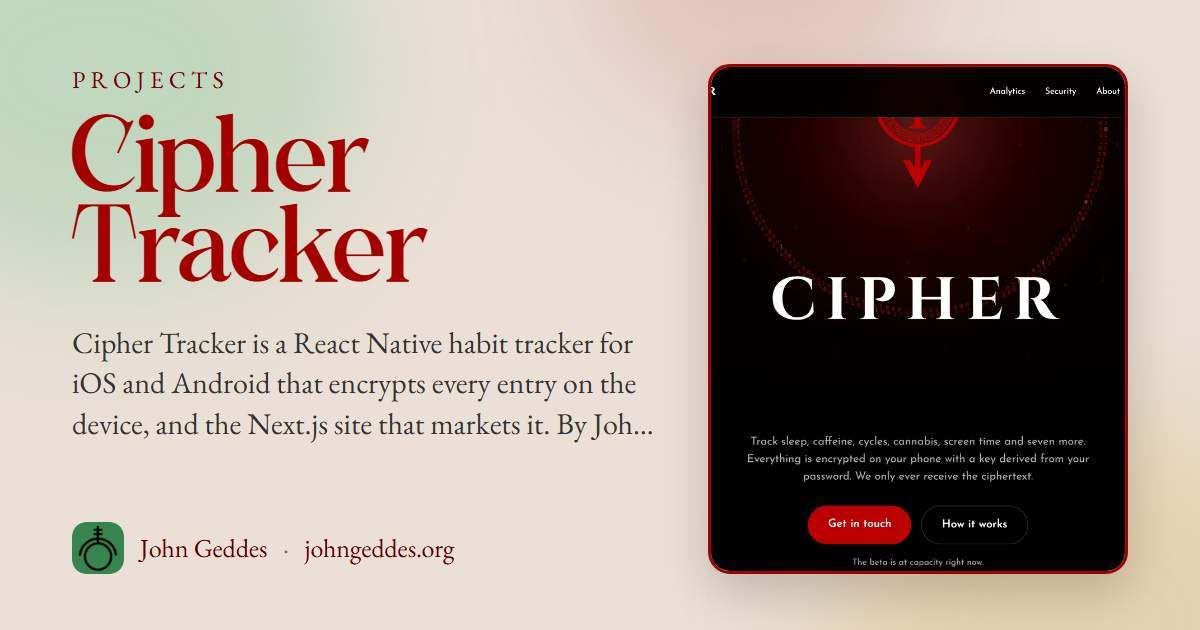
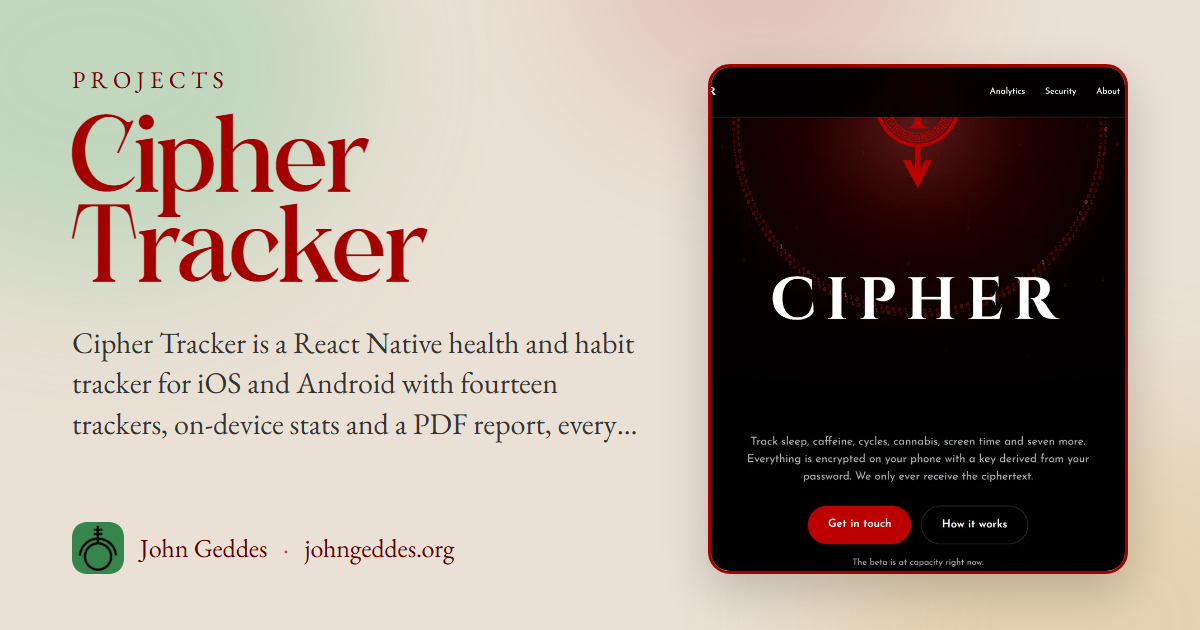
Cipher Tracker: bring the page up to the fourteen-tracker app, with new screenshots
The app has moved a long way since the page was written: fourteen trackers
(Vitals and Habits are new), Impacts on Stats, a PDF report with CSV and JSON
export, an 877-exercise catalogue with intervals, climbing venues and projects,
lock-screen rest timers, and a PIN-wrapped data key that spares the 200,000
PBKDF2 rounds on unlock. The page now describes all of that, and the figures
are re-counted: 3,822 unit tests, 36 glyphs, 163 tests on the marketing site.

Fifteen fresh screenshots replace the February set, converted to 960px WebP
and named by screen; the old IMG_ files are removed. Four more glyphs are
copied verbatim from the app's icon kit for the new feature cards.

The projects button, SEO description and summary, llms entry and Recruiters
paragraph carry the new counts, and the share card is regenerated.

Changed region(s): [[0.0617, 0.573, 0.555, 0.6937], [0.37, 0.5127, 0.5242, 0.573]]

diff --git a/src/Components/Pages/ProjectPages/CipherTracker.jsx b/src/Components/Pages/ProjectPages/CipherTracker.jsx
@@ -7,24 +7,29 @@ import { Link } from 'react-router-dom';
 import './ProjectTemplate.css';
 import Glyph from './icons/Glyph';
 import SiteHero from './ProjectPageImages/CipherTracker/cipher-site-hero.webp';
-import Home from './ProjectPageImages/CipherTracker/IMG_9425.webp';
-import Analytics from './ProjectPageImages/CipherTracker/IMG_9430.webp';
-import PinLock from './ProjectPageImages/CipherTracker/IMG_9424.webp';
-import Insights from './ProjectPageImages/CipherTracker/IMG_9431.webp';
-import Drinks from './ProjectPageImages/CipherTracker/IMG_9442.webp';
-import ScreenTime from './ProjectPageImages/CipherTracker/IMG_9443.webp';
-import Period from './ProjectPageImages/CipherTracker/IMG_9447.webp';
-import Calories from './ProjectPageImages/CipherTracker/IMG_9449.webp';
-import Pills from './ProjectPageImages/CipherTracker/IMG_9451.webp';
-import Sleep from './ProjectPageImages/CipherTracker/IMG_9452.webp';
+import Home from './ProjectPageImages/CipherTracker/cipher-home.webp';
+import PinLock from './ProjectPageImages/CipherTracker/cipher-pin.webp';
+import StatsOverview from './ProjectPageImages/CipherTracker/cipher-stats-overview.webp';
+import StatsCaffeine from './ProjectPageImages/CipherTracker/cipher-stats-caffeine.webp';
+import StatsCaffeineDetail from './ProjectPageImages/CipherTracker/cipher-stats-caffeine-detail.webp';
+import Calendar from './ProjectPageImages/CipherTracker/cipher-calendar.webp';
+import ClimbSetup from './ProjectPageImages/CipherTracker/cipher-climb-setup.webp';
+import ClimbSession from './ProjectPageImages/CipherTracker/cipher-climb-session.webp';
+import Hydration from './ProjectPageImages/CipherTracker/cipher-hydration.webp';
+import Drinks from './ProjectPageImages/CipherTracker/cipher-drinks.webp';
+import Calories from './ProjectPageImages/CipherTracker/cipher-calories.webp';
+import Period from './ProjectPageImages/CipherTracker/cipher-period.webp';
+import Habits from './ProjectPageImages/CipherTracker/cipher-habits.webp';
+import ExportPane from './ProjectPageImages/CipherTracker/cipher-export.webp';
+import Report from './ProjectPageImages/CipherTracker/cipher-report.webp';
 
 const TRACKER_SHOTS = [
-  { src: Drinks, alt: 'Logging a drink in the Drinks tracker' },
-  { src: ScreenTime, alt: 'Entering hours and minutes in the Screen Time tracker' },
-  { src: Period, alt: 'The Period tracker with flow levels and symptom tags' },
-  { src: Calories, alt: 'The Calories tracker with a food entry and daily total' },
-  { src: Pills, alt: 'The Pills tracker with a prescription schedule' },
-  { src: Sleep, alt: 'The Sleep tracker with bedtime and wake time' },
+  { src: Hydration, alt: 'The Hydration tracker: a bottle filled to 25 of 64 ounces, with quick-add buttons for a glass, a bottle and a saved custom size' },
+  { src: Drinks, alt: 'The Drinks tracker with wine selected and a half or full pour to choose' },
+  { src: Calories, alt: 'The Calories tracker: a ring of calories left and bars for protein, carbs, fat and sugar' },
+  { src: Period, alt: 'The Period tracker on day 9 of the follicular phase, with flow chips and a prediction confidence line' },
+  { src: Habits, alt: 'The Habits tracker reading All done, with one habit ticked for the day' },
+  { src: ExportPane, alt: 'The Export pane in Settings: a period, a set of trackers, a name for the report, and CSV or JSON for the data' },
 ];
 
 const FEATURES = [
@@ -35,31 +40,42 @@ const FEATURES = [
       user's password by 200,000 rounds of PBKDF2-HMAC-SHA256. Every write gets a fresh
       128-bit IV and an HMAC-SHA256 signature that covers the iteration count itself, so the
       derivation cost cannot be downgraded by rewriting a stored blob. The server only ever
-      receives the ciphertext.`,
+      receives the ciphertext. The derived key is kept on the phone wrapped under the PIN, so
+      a daily unlock does not pay the 200,000 rounds again, and concurrent callers share one
+      derivation instead of each running their own.`,
   },
   {
     glyph: 'cipherTarget',
-    title: 'Twelve trackers, one registry',
-    body: `Drinks, screen time, caffeine, cannabis, nicotine, period, calories, hydration,
-      exercise, sleep, pills and diary. Colour, unit, trend polarity, reminder shape and
-      quick-add behaviour all live in a single pure-data registry with no imports, which is
-      what lets the test runner execute it directly and pin the list to exactly twelve.`,
+    title: 'Fourteen trackers, one registry',
+    body: `Drinks, screen time, caffeine, cannabis, sleep, calories, period, diary, nicotine,
+      pills, hydration, exercise, vitals and habits. Colour, ink, unit, trend direction,
+      reminder shape and quick-add behaviour all live in a single pure-data registry with no
+      imports, which is what lets the test runner execute it directly and pin the list.
+      Tutorials run on the real screens, one for every tracker but Hydration.`,
   },
   {
     glyph: 'cipherChart',
-    title: 'Analytics computed on the device',
-    body: `Weekly and monthly views, per-tracker trends and cycle predictions, all derived
-      locally from decrypted data. Nothing is aggregated server-side, because the server has
-      no readable copy to aggregate.`,
+    title: 'Stats computed on the device, by rules',
+    body: `Seven, thirty and 365 day views, per-tracker trends and cycle predictions, all
+      derived locally from decrypted data. A daily average divides by the days that have a
+      log, never by the calendar. A previous window with nothing in it reads as no prior data
+      rather than a made-up percentage. The Impacts card pairs the user's own days (days with
+      caffeine after two in the afternoon against days without, say) and states both counts
+      in the user's units, and only once an evidence gate is met: five days in each arm,
+      fourteen paired, and a standardised difference above a floor. It never names a cause,
+      a percentage or a piece of advice, and a test scans every sentence for the words it is
+      not allowed to use.`,
   },
   {
     glyph: 'cipherDumbbell',
-    title: 'One exercise tracker, three sports',
-    body: `Strength, climbing and cardio share a tracker through a session-type field. Strength
-      gets rest timers, last-session targets and a personal-record engine that only fires on a
-      strict improvement. Climbing logs sends and attempts across four grade systems on one
-      comparable scale. Cardio uses sport-correct pace conventions, including the /100m swim
-      and /500m erg splits.`,
+    title: 'One exercise tracker, four session types',
+    body: `Strength, climbing, cardio and intervals share a tracker. The catalogue is 877
+      exercises with instructions, generated from a pinned public-domain dataset, and the
+      personal-record engine only fires on a strict improvement. Climbing logs flashes, sends
+      and attempts by venue, keeps a project list per gym and draws a grade pyramid, with
+      four grade systems on one comparable scale. Cardio uses sport-correct pace conventions, including the /100m swim
+      and /500m erg splits. Rest timers run on the lock screen as an iOS Live Activity and an
+      Android ongoing notification, and a weekly plan names the day's workout.`,
   },
   {
     glyph: 'cipherBarcode',
@@ -77,15 +93,34 @@ const FEATURES = [
       real per-day device screen time. It no-ops cleanly on iOS, where the equivalent API needs
       an entitlement from Apple.`,
   },
+  {
+    glyph: 'cipherNote',
+    title: 'A report you can hand to a doctor',
+    body: `The Export pane builds a PDF over 30, 90 or 365 days or all time for the trackers you
+      pick, with the same numbers as the Stats screen because it runs the same compute
+      modules. The name on the report is typed each time and never saved. Data goes out as
+      CSV or as the stored JSON untouched. Files are written to the app's private cache and
+      swept after sharing, and diary text goes into a data export, never into a report.`,
+  },
+  {
+    glyph: 'cipherCheck',
+    title: 'Product rules the tests enforce',
+    body: `On the five trackers where less is better (drinks, caffeine, nicotine, cannabis,
+      screen time) no celebration, success haptic or animation ever fires on a consumption
+      entry; rewards attach to clean days and reductions against the user's own baseline.
+      Calories treats under and over the goal identically. Period keeps no streak or score,
+      and a late period never reaches a notification. Every animation gates on the reduced
+      motion setting. Each of these is a test that fails the suite, not a note in a document.`,
+  },
 ];
 
 const LEDGER = [
-  { label: 'Trackers', value: '12' },
-  { label: 'Unit tests, all passing', value: '548' },
+  { label: 'Trackers', value: '14' },
+  { label: 'Unit tests, all passing', value: '3,822' },
   { label: 'PBKDF2 rounds per key', value: '200,000' },
-  { label: 'Exercises in the library', value: '52' },
-  { label: 'Icons drawn to replace emoji', value: '26' },
-  { label: 'Tests holding the site to the app', value: '75' },
+  { label: 'Exercises in the catalogue', value: '877' },
+  { label: 'Icons drawn to replace emoji', value: '36' },
+  { label: 'Tests on the marketing site', value: '163' },
 ];
 
 const TrackerCard = ({ src, alt, index, total, hoveredIndex, onHover }) => {
@@ -128,7 +163,7 @@ const TrackerCard = ({ src, alt, index, total, hoveredIndex, onHover }) => {
         decoding="async"
         src={src}
         alt={alt}
-        style={{ width: '100%', height: '100%', objectFit: 'cover', borderRadius: '1.5rem' }}
+        style={{ width: '100%', height: '100%', objectFit: 'cover', objectPosition: 'top', borderRadius: '1.5rem' }}
       />
     </motion.div>
   );
@@ -147,13 +182,14 @@ const CipherTracker = () => {
       <div className="proj-page main-content">
         <div className="proj-hero">
           <p className="proj-hero-tagline">
-            Twelve habits. Encrypted on your phone.
+            Fourteen habits. Encrypted on your phone.
           </p>
           <div className="proj-tech-pills">
             <span className="proj-pill">React Native</span>
             <span className="proj-pill">Expo</span>
             <span className="proj-pill">AES-256-CTR</span>
             <span className="proj-pill">Firebase</span>
+            <span className="proj-pill">Cloud Functions</span>
             <span className="proj-pill">RevenueCat</span>
             <span className="proj-pill">Next.js</span>
             <span className="proj-pill">TypeScript</span>
@@ -164,9 +200,8 @@ const CipherTracker = () => {
             </a>
           </div>
           <p className="proj-status">
-            iOS and Android builds, pre-launch. The site is live; the app is in submission
-            prep, the TestFlight beta is at capacity, and the App Store listing is not
-            public yet.
+            iOS and Android builds, pre-launch. The site is live and the app is at version
+            1.5.7 in store prep. The App Store listing is reserved but not public yet.
           </p>
         </div>
 
@@ -177,10 +212,10 @@ const CipherTracker = () => {
         <div className="proj-about">
           <p>
             Cipher is a health and habit tracker for iOS and Android, built in React Native
-            and Expo. It tracks twelve things (drinking, sleep, calories, cycles, screen
-            time, workouts and the rest), and the whole product is arranged around one
-            promise: the entries are encrypted on the phone before they reach the cloud, so
-            the server holds ciphertext and nothing else.
+            and Expo. It tracks fourteen things (drinking, sleep, calories, cycles, screen
+            time, workouts, blood pressure, a floss habit, and the rest), and the whole product
+            is arranged around one promise: the entries are encrypted on the phone before they
+            reach the cloud, so the server holds ciphertext and nothing else.
           </p>
           <p>
             That promise decides the architecture. There is no password reset, because the
@@ -189,9 +224,16 @@ const CipherTracker = () => {
             way back in, and the app makes you write it down before it finishes setting up.
             Accounts are username-only, so no email address is ever collected. Firestore
             stores month-sharded encrypted blobs behind owner-only security rules tested
-            against the emulator.
+            against the emulator, and a sync re-encrypts and sends only the months whose
+            content changed since the last push.
           </p>
         </div>
+
+        <div className="proj-screenshot-grid">
+          <img loading="lazy" decoding="async" src={Home} alt="Home on a Tuesday morning: ten enabled trackers, each with the day's status and an add button, and a three-day flame" />
+          <img loading="lazy" decoding="async" src={PinLock} alt="The six-digit PIN screen that unlocks a phone that is already signed in" />
+        </div>
+        <p className="proj-caption">Home with ten of the fourteen trackers switched on, and the PIN that stands in for the password on a signed-in phone.</p>
 
         <h2 className="proj-section-heading">What it does</h2>
         <div className="proj-features">
@@ -209,11 +251,20 @@ const CipherTracker = () => {
         </div>
 
         <div className="proj-screenshot-grid">
-          <img loading="lazy" decoding="async" src={Home} alt="Home dashboard showing each enabled tracker with the day's totals" />
-          <img loading="lazy" decoding="async" src={Analytics} alt="Analytics screen with weekly totals and change per tracker" />
-          <img loading="lazy" decoding="async" src={PinLock} alt="PIN entry screen that unlocks an already signed-in device" />
-          <img loading="lazy" decoding="async" src={Insights} alt="Analytics insight cards for medication adherence and caffeine timing" />
+          <img loading="lazy" decoding="async" src={StatsOverview} alt="Stats over seven days: today's summary across ten trackers, then period totals per tracker" />
+          <img loading="lazy" decoding="async" src={StatsCaffeine} alt="Caffeine stats: total and average per tracked day, highlights, a seven-day bar chart and insight rows" />
         </div>
+        <div className="proj-screenshot-grid">
+          <img loading="lazy" decoding="async" src={StatsCaffeineDetail} alt="Further down the caffeine page: when caffeine is consumed by time of day, caffeine-free progress, a sleep impact estimate, the FDA daily limit bar and a cups-of-coffee equivalent" />
+          <img loading="lazy" decoding="async" src={Calendar} alt="The Calendar for November 2026 with coloured orbs on logged days, a tracker filter row, and the selected day's entries below" />
+        </div>
+        <p className="proj-caption">Stats and Calendar are computed from decrypted data on the phone. The sleep impact line is the one place a down-good tracker is allowed to state a fact about itself.</p>
+
+        <div className="proj-screenshot-grid">
+          <img loading="lazy" decoding="async" src={ClimbSetup} alt="Starting a climb: the venue, saved gyms as chips, boulder, top-rope or lead, and V-Scale or Font grades, over the exercise home with its week plan" />
+          <img loading="lazy" decoding="async" src={ClimbSession} alt="A live climbing session at a gym: a V3 grade stepper with Flash, Send and Attempt, five climbs logged by grade, and a rest timer along the bottom" />
+        </div>
+        <p className="proj-caption">Climbing inside the exercise tracker: a venue with its own project list, a grade stepper, and the rest timer that also runs on the lock screen.</p>
 
         <div className="proj-card-fan">
           {TRACKER_SHOTS.map((shot, index) => (
@@ -238,6 +289,11 @@ const CipherTracker = () => {
           ))}
         </div>
 
+        <div className="proj-screenshot">
+          <img loading="lazy" decoding="async" src={Report} alt="The first page of a Cipher health report PDF opened in Files: a 30-day window, the trackers included, and an at-a-glance table of days logged per tracker" />
+          <p className="proj-caption">The PDF the Export pane produces, opened in Files on the phone. The paragraph at the top says how the averages were taken, so the person reading it does not have to guess.</p>
+        </div>
+
         <div className="proj-companion">
           <h2>The site that sells it</h2>
           <p>
@@ -249,8 +305,8 @@ const CipherTracker = () => {
             Its useful trick is that the marketing claims are testable. Rather than restate
             the app's data in prose, the site mirrors it as typed constants (the tracker
             registry, the design tokens, the literal shape of the stored ciphertext envelope),
-            and 75 unit tests assert the copy against them. If the app changes its blob format,
-            the website's test suite fails. A build script fails the build over a per-route
+            and its test suite asserts the copy against them. If the app changes its blob
+            format, the website's tests fail. A build script fails the build over a per-route
             gzip budget, which is what killed the previous hero: eighty decoded WebP frames
             that hijacked the scroll.
           </p>
@@ -258,13 +314,15 @@ const CipherTracker = () => {
 
         <div className="proj-about">
           <p>
-            The engineering discipline is the part worth pointing at. 548 unit tests run on
-            the Node test runner with no framework, including a gate that fails the build if
-            an emoji appears anywhere in the rendered UI, which is why the app ships a
-            26-glyph SVG icon set of its own, the set the icons on this page are drawn from.
-            Firebase connections are certificate-pinned across three Google domains with
-            backup pins so a rotation cannot lock anyone out, and decryption still walks four
-            historical envelope formats so no early user's data was ever stranded.
+            The engineering discipline is the part worth pointing at. 3,822 unit tests run on
+            the Node test runner with no framework and never render a screen; they read the
+            source instead and pin what it must and must not contain. One gate fails the build
+            if an emoji appears anywhere in the UI, which is why the app ships a 36-glyph SVG
+            icon set of its own, the set the icons on this page are drawn from. Another fails it
+            on an em dash in a shipping string. Firebase connections are certificate-pinned
+            across three Google domains with backup pins so a rotation cannot lock anyone out,
+            and decryption still walks four historical envelope formats so no early user's data
+            was ever stranded.
           </p>
           <p>
             Cipher is operated by Cipher Tracker LLC, an Illinois company, and ships with a

diff --git a/src/Components/Pages/HomePages/Recruiters.jsx b/src/Components/Pages/HomePages/Recruiters.jsx
@@ -58,7 +58,7 @@ const TRACKS = [
     download: 'Geddes_Web_Developer.pdf',
     body: [
       `Computer Science degree from Loyola, and I have been shipping software the whole time. I interned at Brag House on the front end of their iOS app in React Native and Figma, and at TLC MilliMeter Wave Products, where I moved the company off an on-site code repository onto Bitbucket and trained the staff on git so the migration actually held.`,
-      `The work I would rather be judged on is what I have built since. Cipher Tracker is a React Native habit tracker where every entry is encrypted on the device before it reaches the server, with no password reset by design and 548 passing tests. Rambler Registrar started as my senior practicum on Python and MongoDB and has since been rebuilt on React Native and Firestore around a real constraint solver that scores every conflict-free timetable it can build.`,
+      `The work I would rather be judged on is what I have built since. Cipher Tracker is a React Native habit tracker where every entry is encrypted on the device before it reaches the server, with no password reset by design and 3,822 passing tests. Rambler Registrar started as my senior practicum on Python and MongoDB and has since been rebuilt on React Native and Firestore around a real constraint solver that scores every conflict-free timetable it can build.`,
       `At TAG I built the internal device platform: a React and TypeScript front end, an Express gateway adding single sign-on and a pooled service-token layer, and a PostgreSQL service that reconciles eleven vendor APIs into one record per machine. This site is mine too, including the serverless API behind it.`,
     ],
   },

diff --git a/src/Components/Pages/ProjectPages/icons/glyphPaths.js b/src/Components/Pages/ProjectPages/icons/glyphPaths.js
@@ -29,11 +29,15 @@
 export const GLYPH_PATHS = {
   // ---- Cipher (verbatim) ----
   cipherBarcode: { d: 'M3 7.5 L3 5 L5.5 5 M18.5 5 L21 5 L21 7.5 M21 16.5 L21 19 L18.5 19 M5.5 19 L3 19 L3 16.5 M7 8.5 L7 15.5 M10 8.5 L10 15.5 M13.5 8.5 L13.5 15.5 M17 8.5 L17 15.5' },
+  cipherCalendar:{ d: 'M4 6 L20 6 L20 20 L4 20 Z M4 10 L20 10 M8 3.5 L8 7 M16 3.5 L16 7' },
   cipherChart:   { d: 'M4 20 L4 12 L8 12 L8 20 M10 20 L10 6 L14 6 L14 20 M16 20 L16 9.5 L20 9.5 L20 20 M3 20 L21 20' },
+  cipherCheck:   { d: 'M4 13 L9.5 18.5 L20 6' },
   cipherDrop:    { d: 'M12 3 C12 3 5.5 11 5.5 15.2 A6.5 6.5 0 0 0 18.5 15.2 C18.5 11 12 3 12 3 Z' },
   cipherDumbbell:{ d: 'M2.5 12 L4.5 12 M4.5 8.5 L6.8 8.5 L6.8 15.5 L4.5 15.5 Z M6.8 12 L17.2 12 M17.2 8.5 L19.5 8.5 L19.5 15.5 L17.2 15.5 Z M19.5 12 L21.5 12' },
   cipherLock:    { d: 'M7 11 L7 8 A5 5 0 0 1 17 8 L17 11 M5 11 L19 11 L19 21 L5 21 Z M12 15 L12 18' },
+  cipherNote:    { d: 'M5 4 L19 4 L19 20 L5 20 Z M8 9 L16 9 M8 12.5 L16 12.5 M8 16 L13 16' },
   cipherPhone:   { d: 'M7 3 L17 3 L17 21 L7 21 Z M10.5 18.2 L13.5 18.2' },
+  cipherPulse:   { d: 'M2 12 L7 12 L9 8 L11.5 17 L14 10 L15.5 12 L22 12' },
   cipherTarget:  { d: 'M12 21 A9 9 0 1 1 12 3 A9 9 0 0 1 12 21 Z M12 17 A5 5 0 1 1 12 7 A5 5 0 0 1 12 17 Z M12 13.2 A1.2 1.2 0 1 1 12 10.8 A1.2 1.2 0 0 1 12 13.2 Z' },
 
   // ---- Chess Deck (drawn for this page) ----

diff --git a/scripts/data.js b/scripts/data.js
@@ -145,7 +145,7 @@ const ROLES = {
 // line, and the page space buys a fuller description of the two that matter.
 const PROJECTS = [
   { name: 'Cipher Tracker', link: 'cipher-app.org',
-    text: 'React Native and Expo habit tracker for iOS and Android. Every entry is encrypted on the device with AES-256-CTR under a PBKDF2-derived key, so the server only ever holds ciphertext and there is deliberately no password reset. 548 passing unit tests.' },
+    text: 'React Native and Expo health and habit tracker for iOS and Android with fourteen trackers, on-device stats and a PDF report for a doctor. Every entry is encrypted on the device with AES-256-CTR under a PBKDF2-derived key, so the server only ever holds ciphertext and there is deliberately no password reset. 3,822 passing unit tests.' },
   { name: 'Rambler Registrar', link: 'github.com/jgeddes3/RamblerRegistrar',
     text: 'Course scheduler for Loyola students. A bounded depth-first search builds every conflict-free timetable from up to eight courses and scores each 0–100 against a published penalty model that knows the walk time between real campus buildings.' },
 ];

diff --git a/src/seo/site.js b/src/seo/site.js
@@ -217,14 +217,14 @@ export const PAGES = {
     cardImage: '/src/Components/Pages/ProjectPages/ProjectPageImages/CipherTracker/cipher-site-hero.webp',
     title: 'Cipher Tracker',
     description:
-      'Cipher Tracker is a React Native habit tracker for iOS and Android that encrypts every entry on the device, and the Next.js site that markets it. By John Geddes.',
+      'Cipher Tracker is a React Native health and habit tracker for iOS and Android with fourteen trackers, on-device stats and a PDF report, every entry encrypted on the phone, plus the Next.js site that markets it. By John Geddes.',
     parent: PROJECTS,
     project: {
       name: 'Cipher Tracker',
       category: 'LifestyleApplication',
       os: 'iOS, Android',
       url: 'https://cipher-app.org',
-      summary: 'Twelve habit trackers, encrypted on your phone with AES-256.',
+      summary: 'Fourteen habit trackers, encrypted on your phone with AES-256.',
     },
     priority: 0.8,
     changefreq: 'monthly',

diff --git a/src/Components/Pages/ProjectButtons/Project3.jsx b/src/Components/Pages/ProjectButtons/Project3.jsx
@@ -7,7 +7,7 @@ const Project3 = () => {
     <div className="project-container3">
       <div className="text-container3">
         <h1>Cipher Tracker</h1>
-        <p>Twelve habit trackers, encrypted on your phone</p>
+        <p>Fourteen habit trackers, encrypted on your phone</p>
       </div>
       <div className="ProjectPhoto3">
         <div className="ProjPhotoRectangle3">
